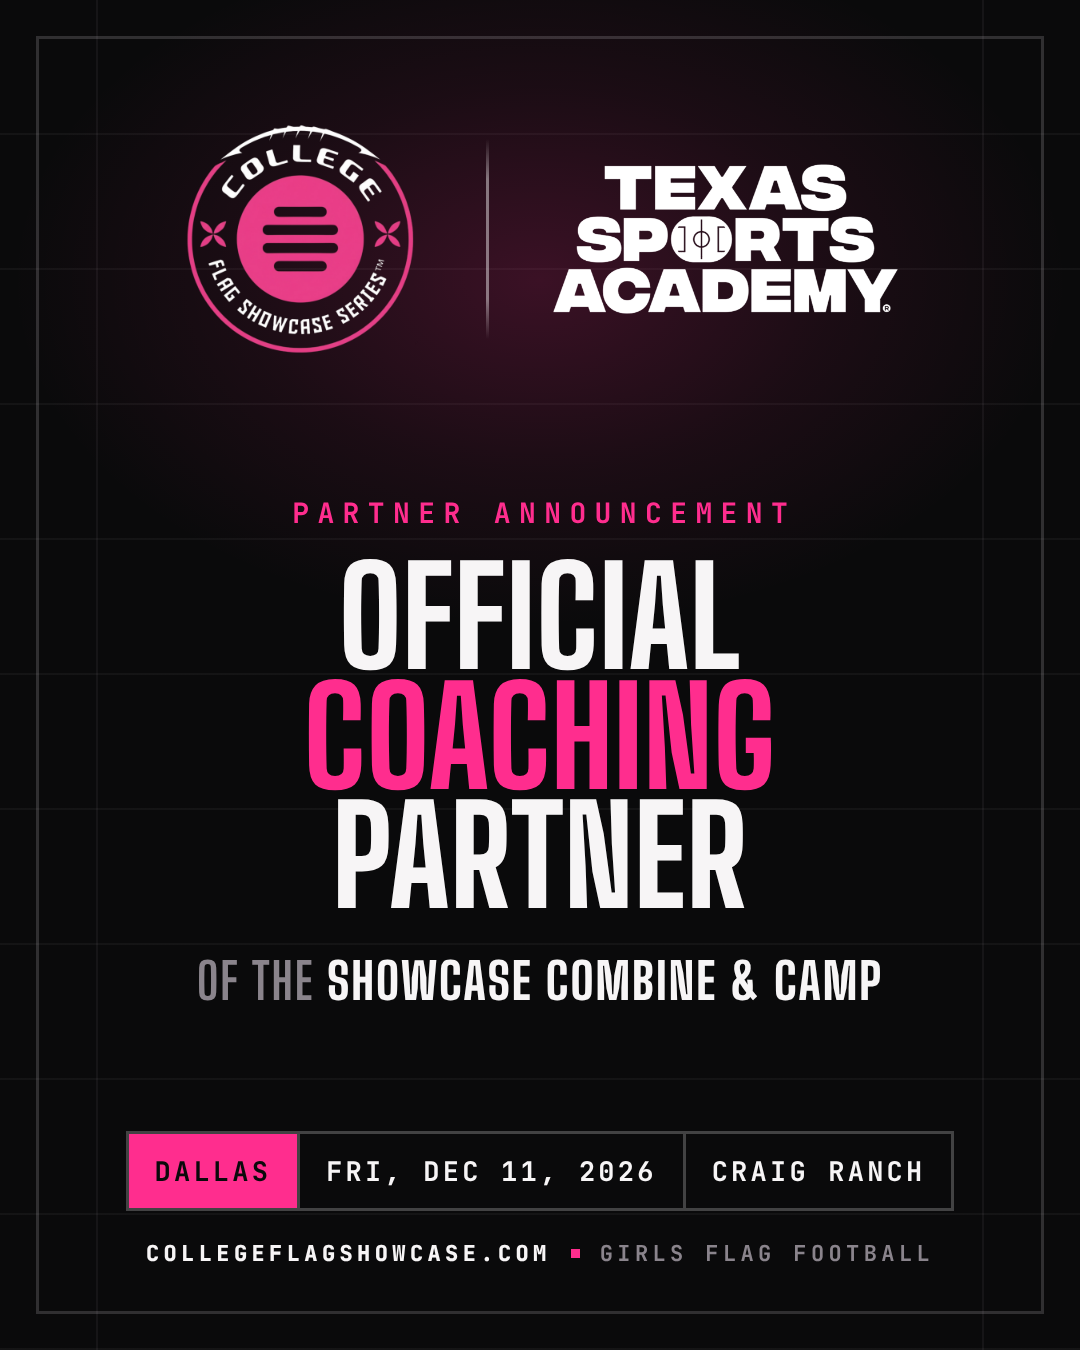
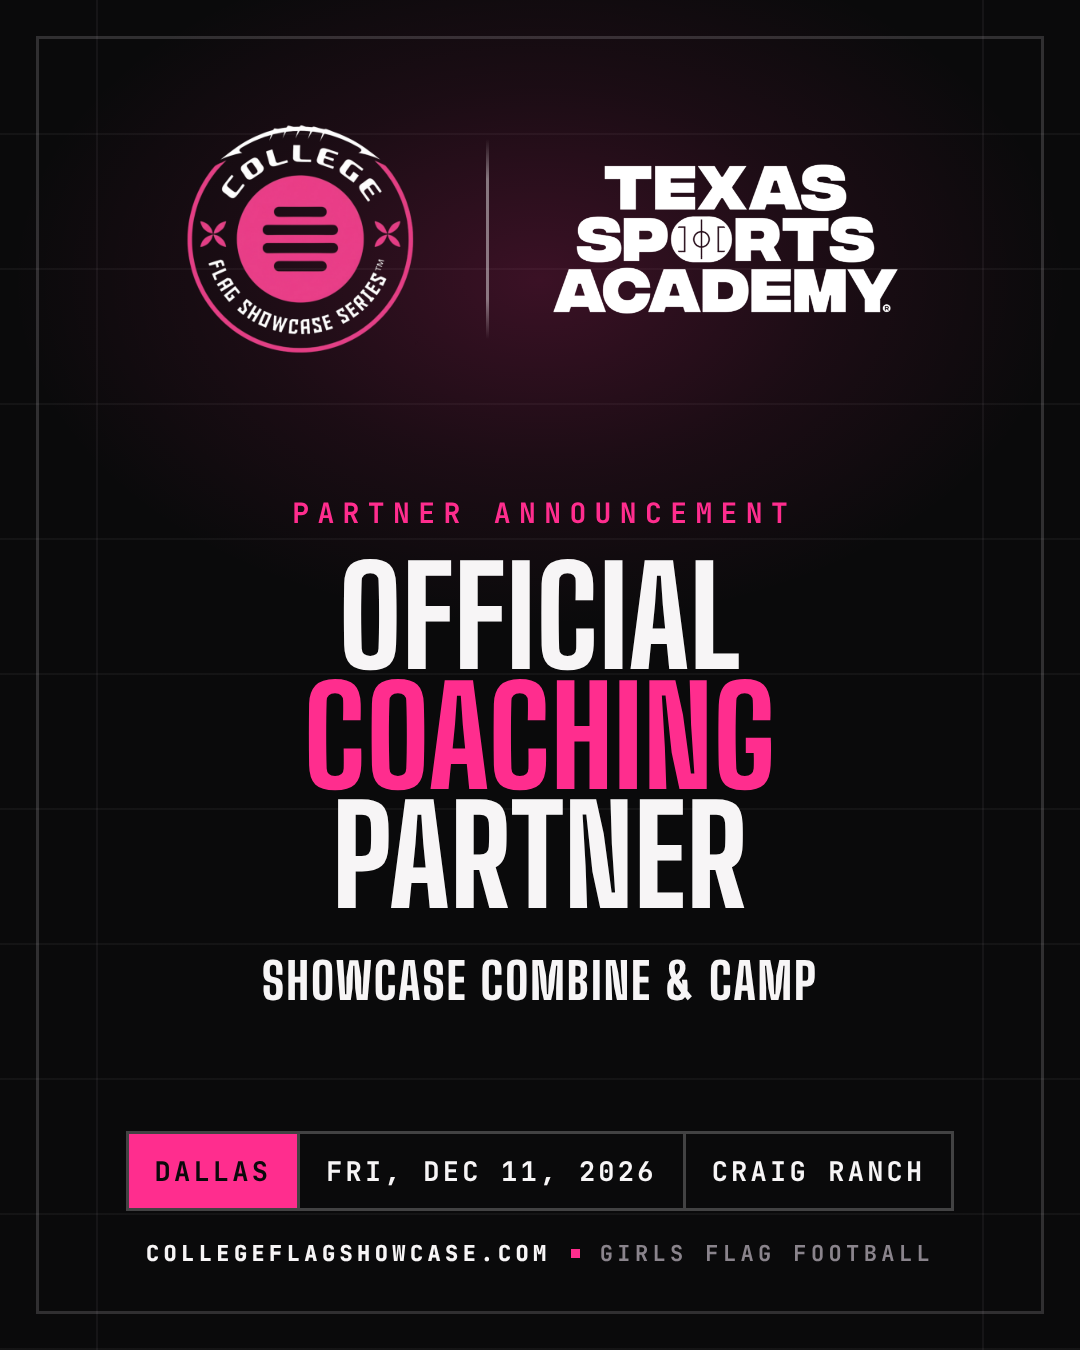
TSA partner post: drop "of the"
Claude-Session: https://claude.ai/code/session_019V32boShoBmRrwWenCPJFc

Changed region(s): [[0.1833, 0.6844, 0.825, 0.7467]]

diff --git a/collateral/ig-partner-texas-sports-academy.html b/collateral/ig-partner-texas-sports-academy.html
@@ -75,7 +75,7 @@
 
     <p class="name">Partner Announcement</p>
     <h1>Official<br><em>Coaching</em><br>Partner</h1>
-    <p class="of"><span>of the</span> Showcase Combine &amp; Camp</p>
+    <p class="of">Showcase Combine &amp; Camp</p>
     
     <div class="bar">
       <span class="hot">Dallas</span>
